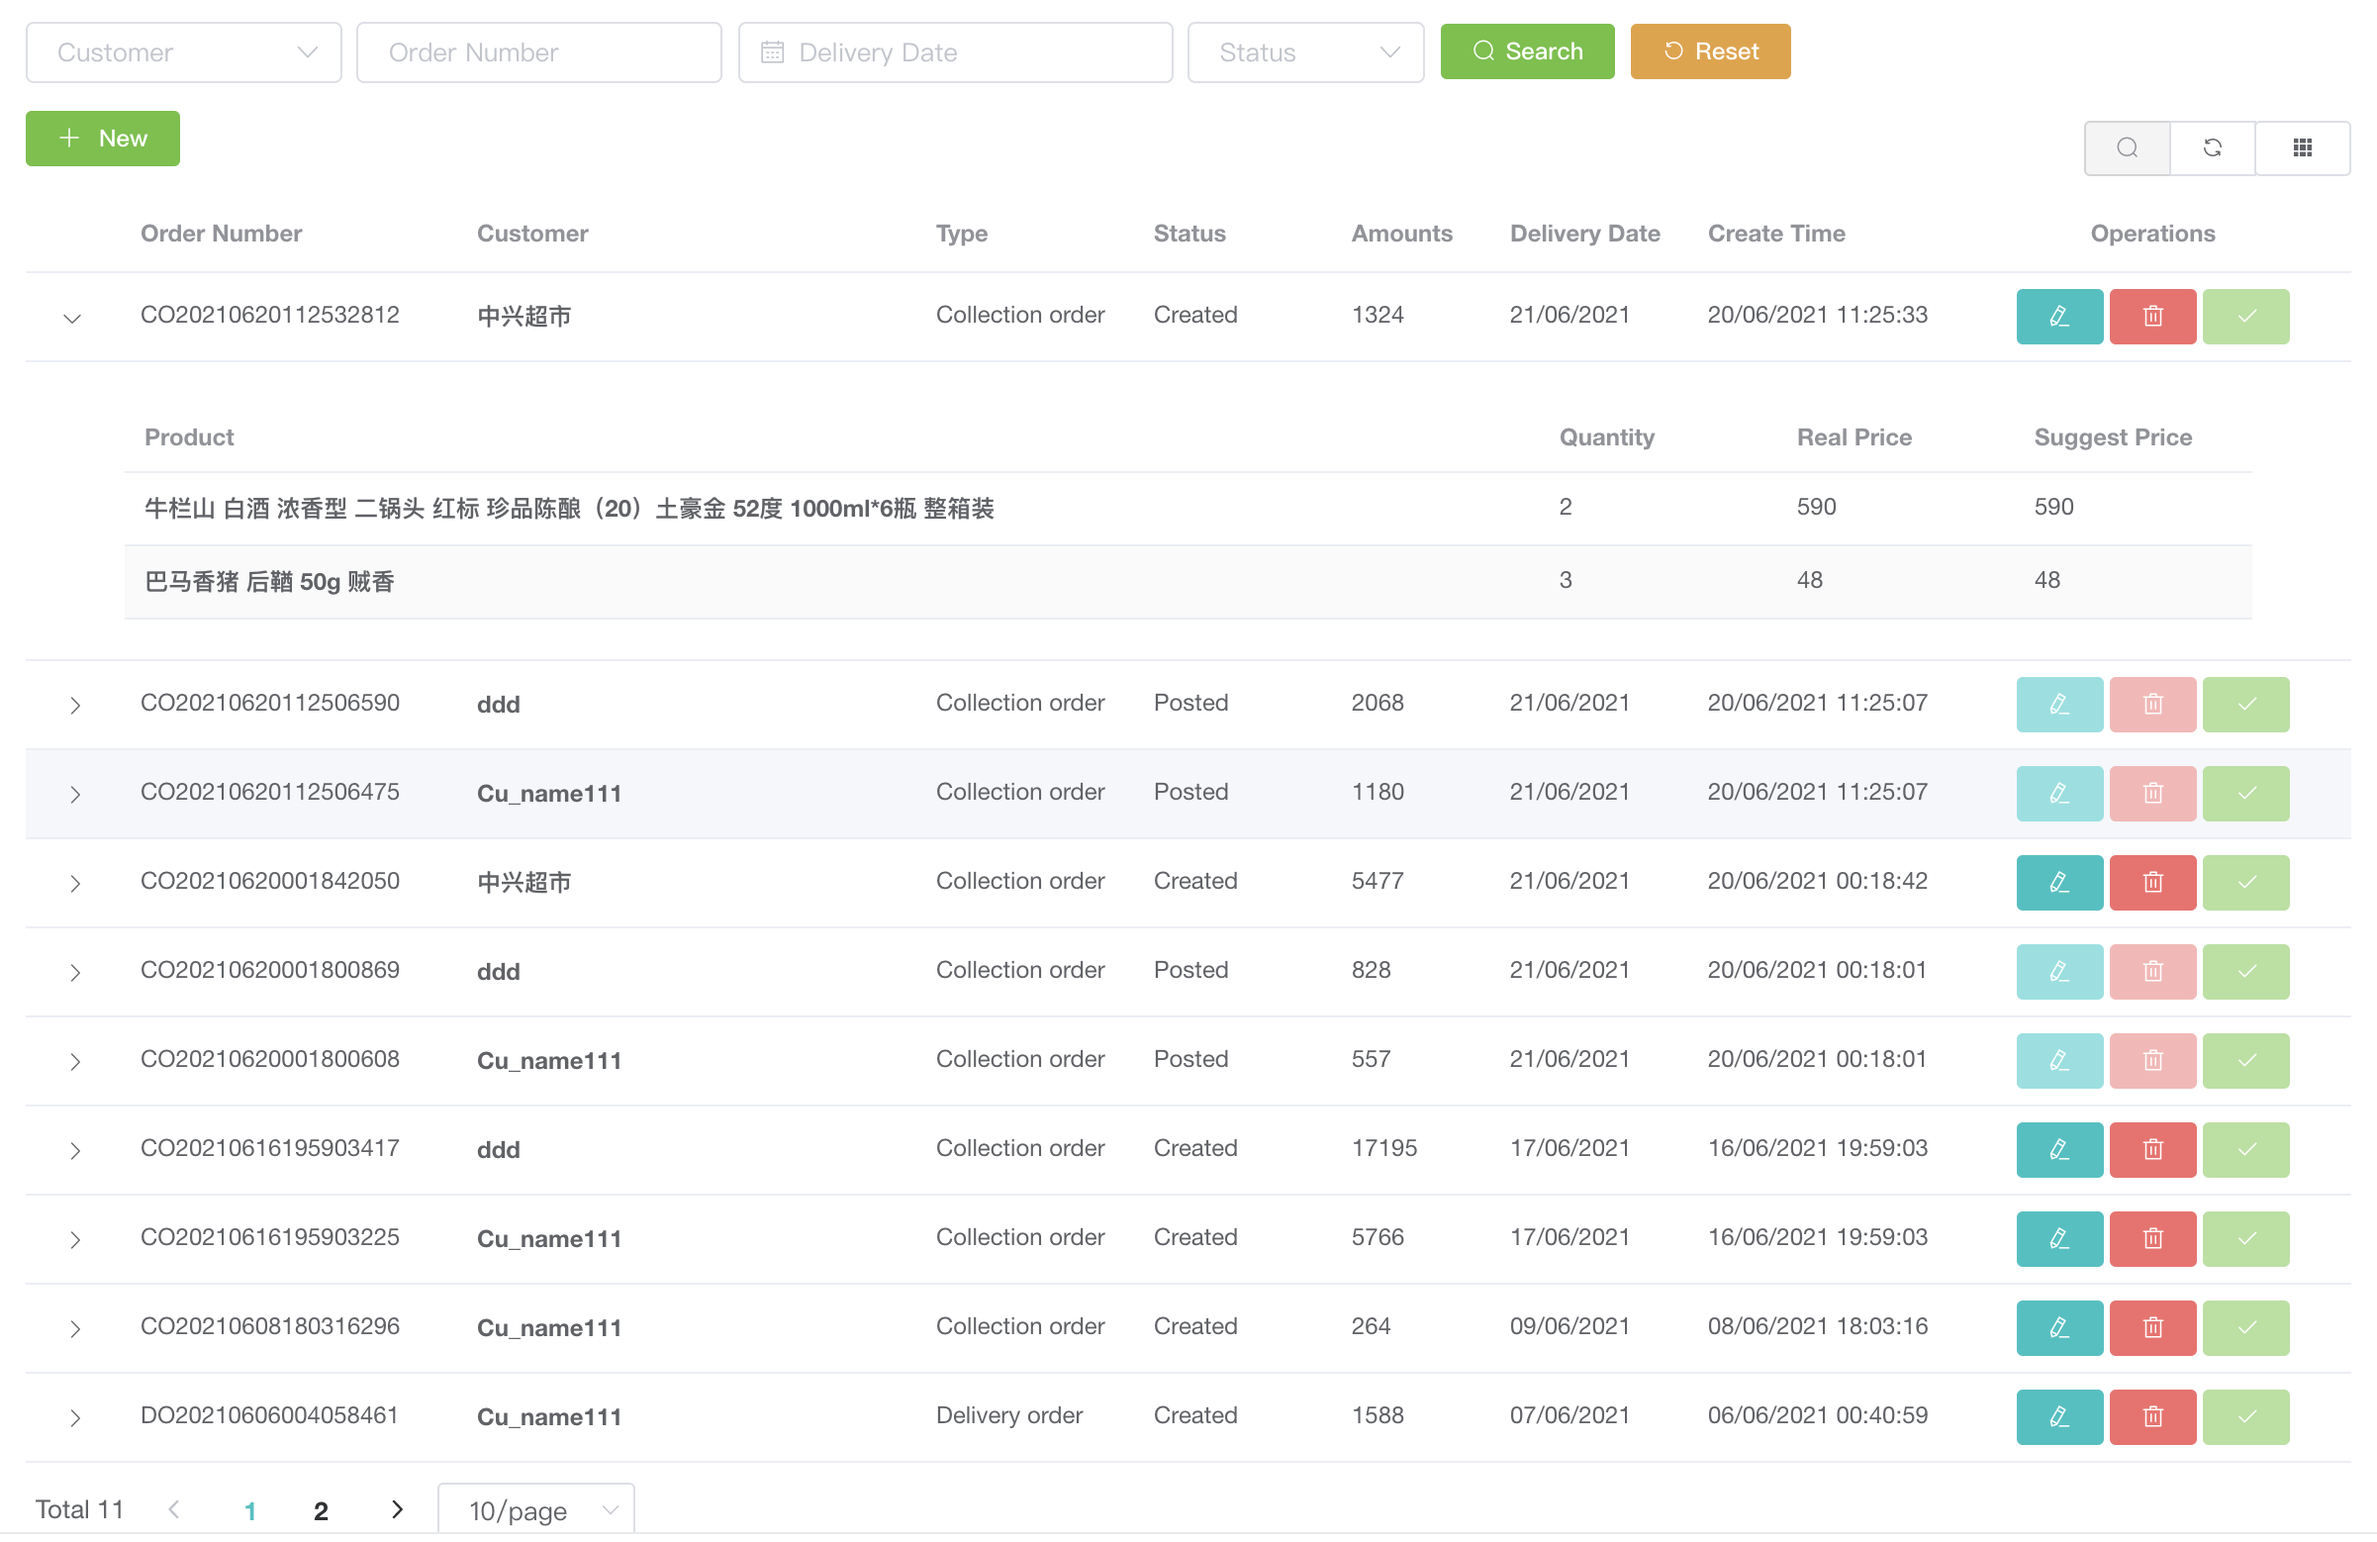
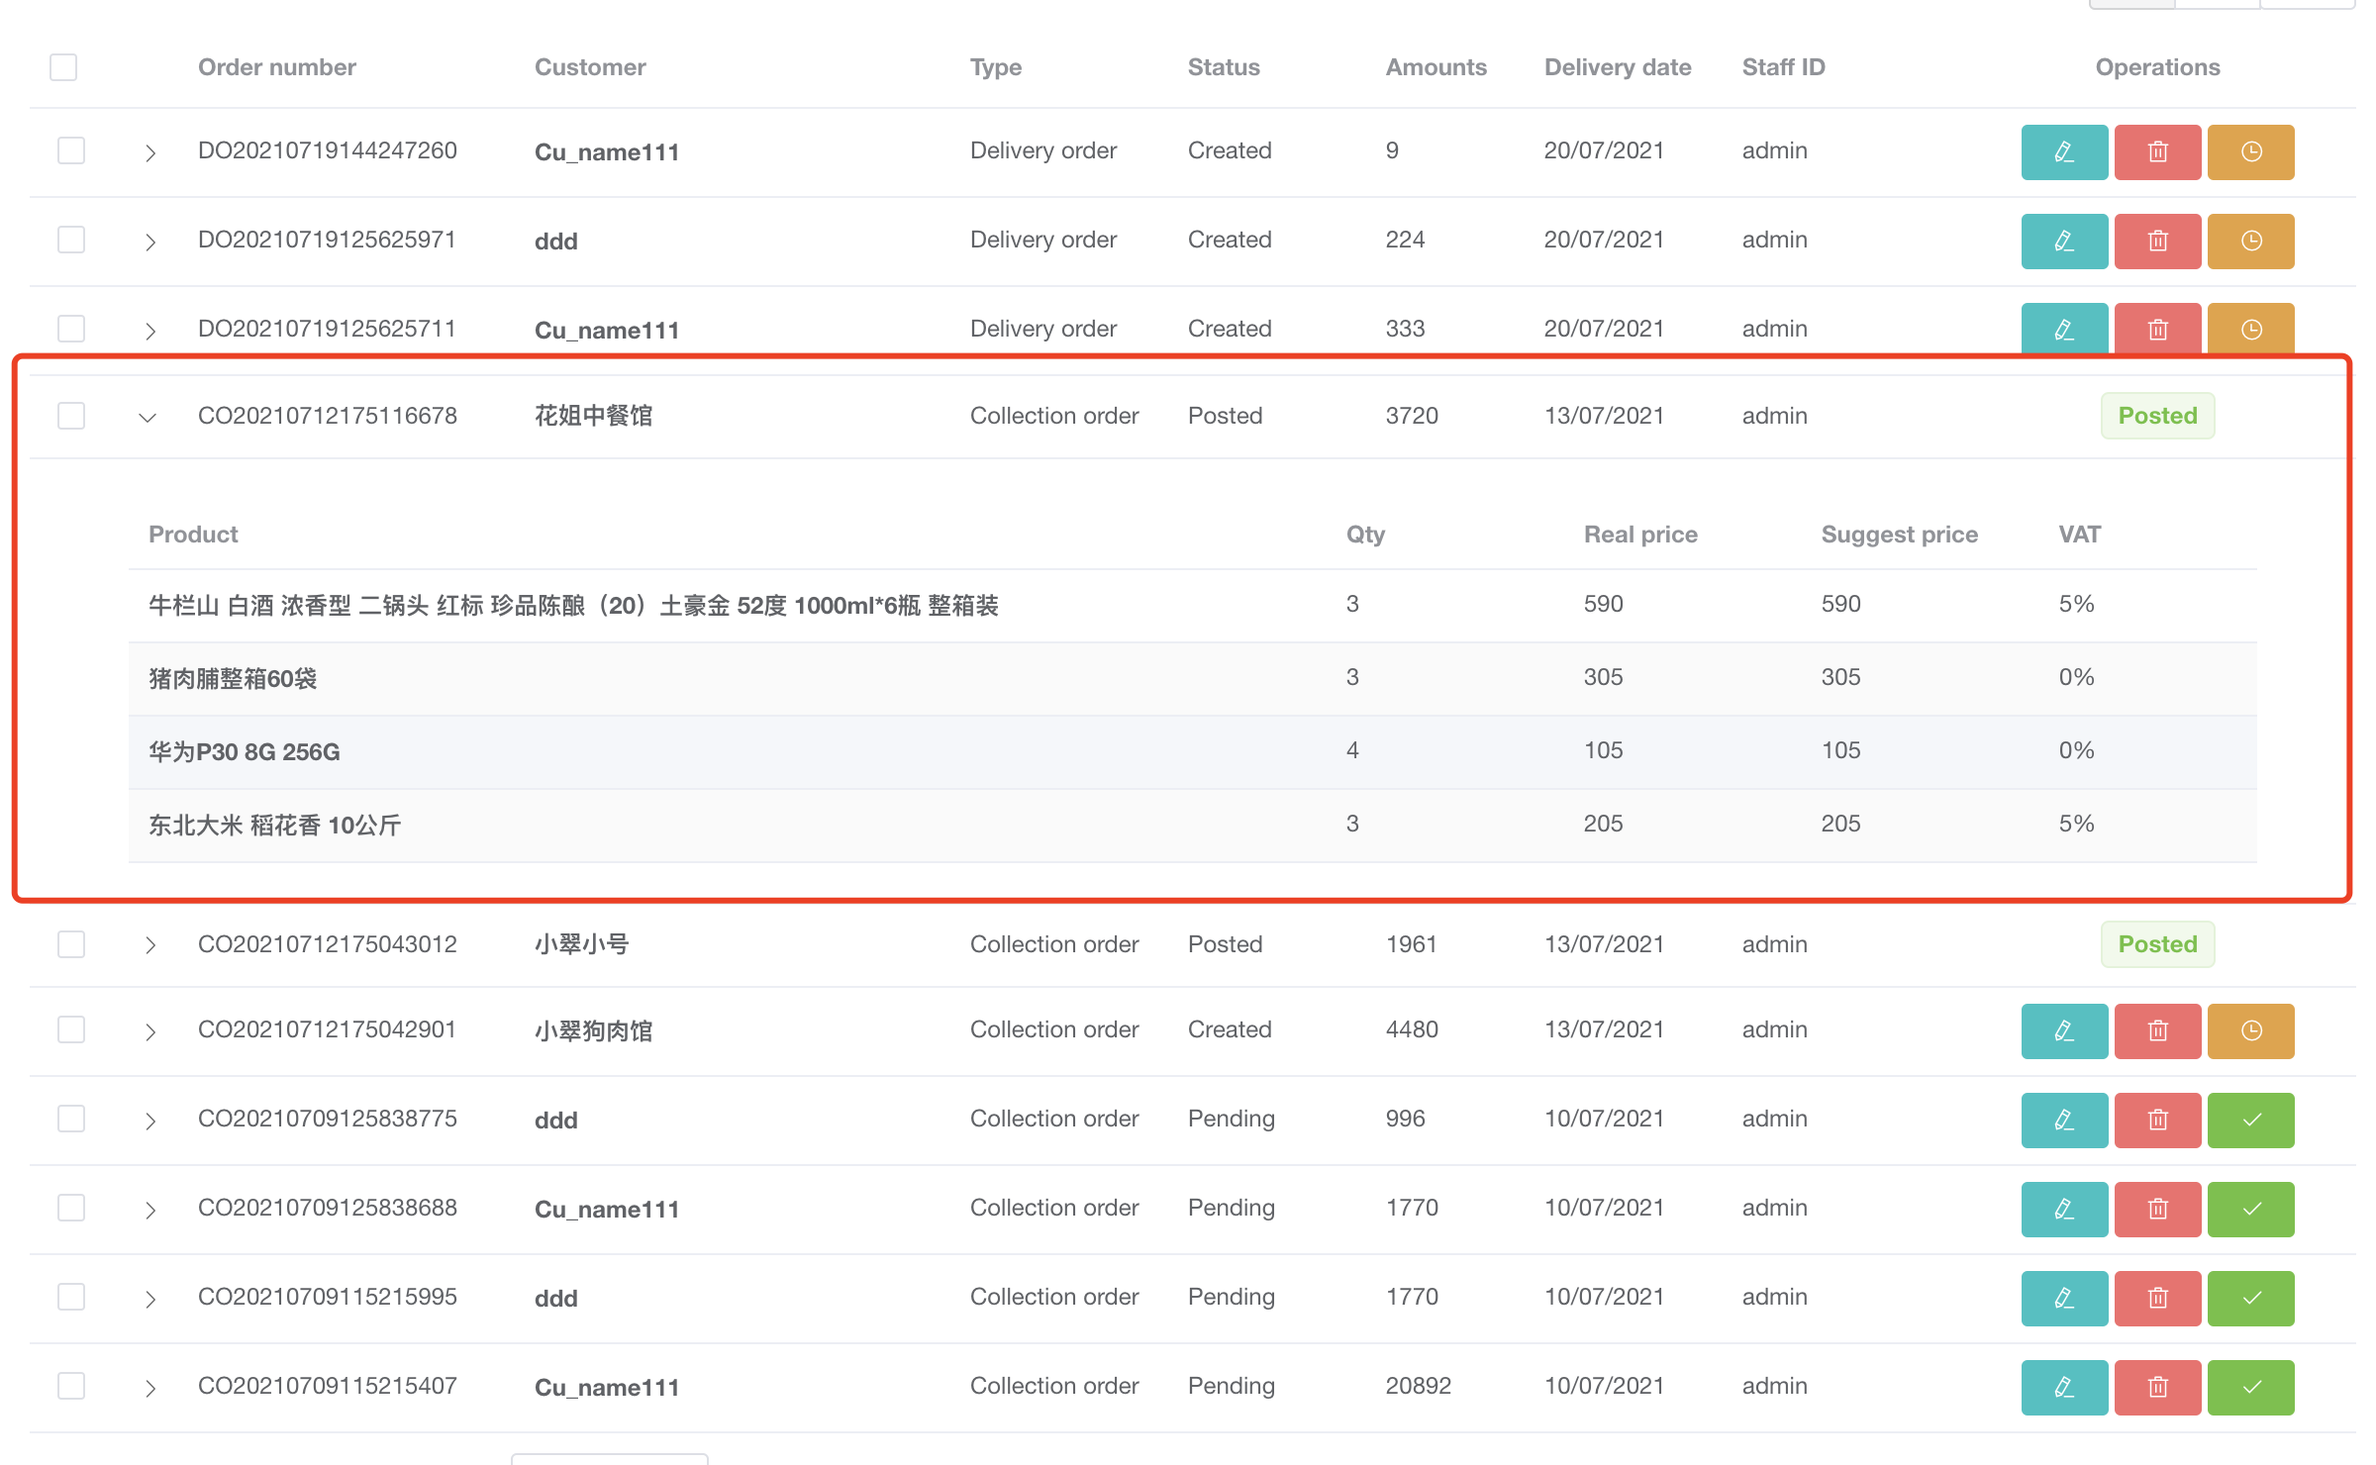
更新

diff --git a/docs/.vuepress/config.js b/docs/.vuepress/config.js
@@ -91,7 +91,8 @@ function getFunctionSidebar (groupBasic, groupSystem, groupProduct, groupStock, 
       collapsable: true,
       children: [
         'finance/',
-        'finance/payment'
+        'finance/payment',
+        'finance/creditFlow'
       ]
     },
     {
@@ -109,7 +110,6 @@ function getFunctionSidebar (groupBasic, groupSystem, groupProduct, groupStock, 
         'report/',
         'report/driverReport',
         'report/pickupReport',
-        'report/sellerReport',
         'report/salesProfit'
       ]
     },

diff --git a/docs/function/order/order.md b/docs/function/order/order.md
@@ -8,20 +8,23 @@
 
 ::: warning
 - 订单管理，增加了几个键盘操作。
-- 在任意页面，通过 `CTRL` + `D`，快速切换到订单管理，并且打开新增订单页。
-- 在订单管理页面，通过 `CTRL` + `D`，快速切换打开新增订单页。
+- 在任意页面，通过 `CTRL` + `Q`，快速切换到订单管理，并且打开新增订单页。
+- 在订单管理页面，通过 `CTRL` + `Q`，快速切换打开新增订单页。
 - 在订单新增页面，请善用Tab切换焦点。
 - 订单新增页面，Real Price后按 `Enter` 回车，会自动增加一行。
 :::
 
 ## 功能预览
 ![](/order/order.png)
-- 列表，`搜索、列表、分页`，功能有：`新增`、`编辑`、`删除`、`Post`
+- 列表，`搜索、列表、分页`，功能有：`新增`、`编辑`、`删除`、`Pending`、`Post`
 - 搜索条件：订单编号是模糊匹配
 - 列表中首列是展开标识。展开后，可以看到[订单列表-展开](#订单列表-展开)
 - 订单状态请参考 [订单状态流转说明](#订单状态流转说明)
-- **编辑**：编辑后订单状态不变。只有（`Created`、`Picking`、`Picked`、`Checked`）状态才可编辑。不可编辑时按钮不可点击
+- **编辑**：编辑后订单状态不变。只有（`Created`、`Pending`）状态才可编辑。不可编辑时按钮不可点击
 - **删除**：只有（`Created`）状态才可删除。订单从其他状态变回`Created`，需要的是对应的拣货单删除。
+- **Pending**：单个订单的Pending操作。一般来说，订单的Pending是系统根据设定的截单时间自动处理，但也额外提供了单独订单的Pending操作功能，方便操作。
+  - 只有（`Created`）状态才可Pending操作
+  - 操作后，订单变成Pending状态
 - **Post**：单个订单的Post操作。一般来说，订单的post是拣货单Post后批量处理的，很少有单独订单post的需要。
   - 只有（`Checked`）状态才可Post操作
   - 操作后，订单变成Posted状态，且对应的库存也扣除。
@@ -33,6 +36,9 @@
 ![](/order/order-add-normal.png)
 - 若选择的客户不能下飞单（无飞单账号），则页面表现如上，只有 `Order 1` 按钮。否则显示 `Order 1` 和 `Order 2` 两个按钮。参考 [飞单](#新增订单-飞单)
 - 点击 `Order 1` 按钮，会增加一行商品信息，请参考[点击按钮后](#点击按钮后)。Product列是下拉框。可以下单的商品列表都会显示出来。
+- 订单类型根据选择的客户类型自动变更，比如客户是Vanboy，则订单类型为取货单，当然也可以手工改动。
+- `(inc. VAT)` 是含税价格。
+- `(ex. VAT)` 是不含税价格。在选择商品和客户后，会自动根据VAT计算这两项内容，供下单时参考
 - 选择商品后，会根据客户的星级决定`Suggest Price`和`Real Price`，具体逻辑是：
   - 某客户的星级是1~5之间，可以参考 [新增客户](../basic/customer#新增客户)。对应此商品的Sell Price 1~5，可以参考 [新增商品](../product/product#新增商品-基本信息)
   - `Suggest Price` 不可更改。

diff --git a/docs/function/basic/customer.md b/docs/function/basic/customer.md
@@ -4,17 +4,19 @@
 - 客户管理，最核心的客户信息管理。涉及后续下单、返佣等。
 - 客户类型有：`客户(Customer)`、`飞机仔(Van boy)`
 - 客户可以有子账户，飞单使用。具体飞单操作请查看 [订单管理](../order/order)
+- 客户地址更新为5行组成。其中Line1，City，Postcode必填
 :::
 
 ## 功能预览
-![Customer](/basic/customer/customer.png)
+![Customer](/basic/customer/customer-20210722.png)
 - 列表，`搜索、列表、分页`，功能有：`新增`、`编辑`、`删除`
+- 列表字段更新，目前设定为更有意义的内容
 - Status是个切换开关，可以决定是否禁用
 - Credit由系统自动管理。代表此客户的余额。目前只在财务订单还款超过订单金额时才会放入到Credit中。
 - 禁用的客户无法继续下单。但不影响之前的订单。
 
 ## 新增客户
-![customer-add](/basic/customer/customer-add.png)
+![customer-add](/basic/customer/customer-add-20210722.png)
 - Line 设定每天的线路，按星期设置。设置后，每星期一都是同一个线路。
 - Referral，是推荐人。具体请参考[推荐人管理](../basic/referral)
 - Child Customer是子账户，目的是飞单使用。所以，为了关联，需要先创建个子账号，再用正常账号去关联子账号。**某客户无子账户，则无法下飞单**
@@ -22,5 +24,5 @@
 - 星级Star是必填项，在下单时会根据客户星级进行不同的折扣。按计划是星级越高，折扣越大。具体请参考 [商品管理](../product/product#新增商品-基本信息)
 
 ## 修改客户
-![customer-edit](/basic/customer/customer-edit.png)
+![customer-edit](/basic/customer/customer-edit-20210722.png)
 

diff --git a/docs/function/system/user.md b/docs/function/system/user.md
@@ -4,16 +4,17 @@
 - 用户管理，RBAC模型下的重要一环。一个用户可以有多个角色。一个角色可以有多个资源。从而一个用户可以有多个资源。
 - 用户管理，管理可登陆系统的所有用户。
 - 用户管理，根据不同岗位去判定某用户是驾驶员还是拣货员等等。
+- 维护了用户的First name 和 Last name
 :::
 
 ## 功能预览
-![](/system/user/user.png)
+![](/system/user/user-20210722.png)
 - 左侧机构列表，可以增删改查。点击某机构后，右侧显示对应机构下的所有用户列表，含分页。
 - 右侧用户列表，可以增删改查。但自己不可以删除自己。
 
 ## 新增用户
-![](/system/user/user-add.png)
-- `Username`：唯一，是系统登录名。
+![](/system/user/user-add-20210722.png)
+- `Staff ID`：唯一，是系统登录名。通常系统说的Username
 - `Email`：唯一，密码等信息会通过此邮箱发送。另外，也可以在后期扩展通过Email登录。
 - `Department`：部门，单选下拉框。一个用户只能归属一个部门。
 - `Job`：岗位。每个用户可以多个岗位。比如，某用户即可以是拣货员，也可以是打单员等
@@ -23,6 +24,6 @@
   - 审核时，通过扫员工编号的条形码确定是谁审核的拣货单。
 
 ## 修改用户
-![](/system/user/user-edit.png)
+![](/system/user/user-edit-20210722.png)
 - 这里只修改用户的基本信息。
 

diff --git a/docs/function/finance/creditFlow.md b/docs/function/finance/creditFlow.md
@@ -1,0 +1,20 @@
+# 客户Credit维护
+
+::: tip
+- 客户Credit变更，只有三种情况：
+  - 订单支付中，对Credit的增加，主要是某订单手工支付超过了某订单的待还款额度，所以，超过的额度进入到客户的Credit中。
+  - 订单支付中，对Credit减少，主要通过Credit给某订单支付还款。
+  - 手工增加或减少，参考[新增](#新增)
+:::
+
+## 功能预览
+![](/finance/creditFlow.png)
+- 列表，`搜索、列表、分页`，功能有：`新增`
+- `Credit Operate`，本次操作的金额，可正可负
+- `Credit Before`，操作前的账户余额
+- `Credit After`，操作后的账户余额
+- 功能只有新增。不允许修改。新增后实时生效。如果新增数据有误请进行反向冲账。即：计划增加Credit 100元，但是增加了110，则再次创建一条记录增加 -10 元。并且描述里请描述清楚。
+
+## 新增
+![](/finance/creditFlow-add.png)
+- 金额可以为负，即给客户账户余额减少

diff --git a/docs/function/product/product.md b/docs/function/product/product.md
@@ -9,7 +9,7 @@
 ## 功能预览
 ![](/product/product.png)
 - 列表，`搜索、列表、分页`，功能有：`新增`、`编辑`、`删除`
-- Status是个切换开关，可以决定是否禁用
+- 列表调整，显示设定的几个价格
 
 ## 新增商品-基本信息
 ![](/product/product-add-basic.png)
@@ -19,6 +19,7 @@
 - Sell Price 1~5，是根据客户不同星级而设定的不同的价格。
 - Limit Price 1~5，是不同星级的最低限价。按设定来说，限价要低于对应的售价。
 - Base Info页的所有属性都是必填项。
+- 增加进货价 Purchase Price，在库存扣成负的，不知真正进货价的时候使用。
 
 ## 新增商品-属性信息
 ![](/product/product-add-attr.png)

diff --git a/docs/function/report/salesProfit.md b/docs/function/report/salesProfit.md
@@ -1,1 +1,14 @@
 # 销售利润报告
+
+::: tip
+- 此报告是某天给某订单送货的报告，每行是由：`送货日期`、`订单号码`决定的。拣货员也是根据送货日期处理的。
+- Turnover是不含税的订单总价。
+- Profit是利润
+- 数据由来是系统自动生成的。在订单Post后，会自动生成司机送货报告
+:::
+
+## 功能预览
+![Customer](/report/sellAmounts.png)
+- 列表，`搜索、列表、分页`
+- 列表显示日期是送货日期，其实就是发生日期
+- 列表下方增加合计列

diff --git a/docs/function/report/driverReport.md b/docs/function/report/driverReport.md
@@ -1,1 +1,12 @@
 # 司机送货报告
+
+::: tip
+- 此报告是某司机某天给某订单送货的报告，每行是由：`送货日期`、`订单号码`决定的。
+- Turnover是不含税的订单总价。
+- 数据由来是系统自动生成的。在订单Post后，会自动生成司机送货报告
+:::
+
+## 功能预览
+![Customer](/report/driverAmounts.png)
+- 列表，`搜索、列表、分页`
+- 列表下方增加合计列

diff --git a/docs/function/report/pickupReport.md b/docs/function/report/pickupReport.md
@@ -1,1 +1,12 @@
 # 拣货金额报告
+
+::: tip
+- 此报告是某拣货员某天拣货的详情的报告，每行是由：`拣货日期`、`订单号码`决定的。
+- Turnover是不含税的订单总价。
+- 数据由来是系统自动生成的。在订单Post后，会自动生成司机送货报告
+:::
+
+## 功能预览
+![Customer](/report/pickupAmounts.png)
+- 列表，`搜索、列表、分页`
+- 列表下方增加合计列

diff --git a/docs/function/finance/README.md b/docs/function/finance/README.md
@@ -1,6 +1,6 @@
 # 财务管理总览
 
 ::: tip
-- 财务管理主要是订单的回款，交由财务人员进行录入
+- 财务管理主要有：订单的回款、客户的Credit维护
 - 菜单权限可以通过系统管理进行分配，保证只有财务人员才可以操作此功能
 :::

diff --git a/docs/function/report/README.md b/docs/function/report/README.md
@@ -1,1 +1,5 @@
 # 报表管理总览
+
+::: tip
+- 主要包含：司机送货报告、拣货金额报告、销售业绩报告
+:::
